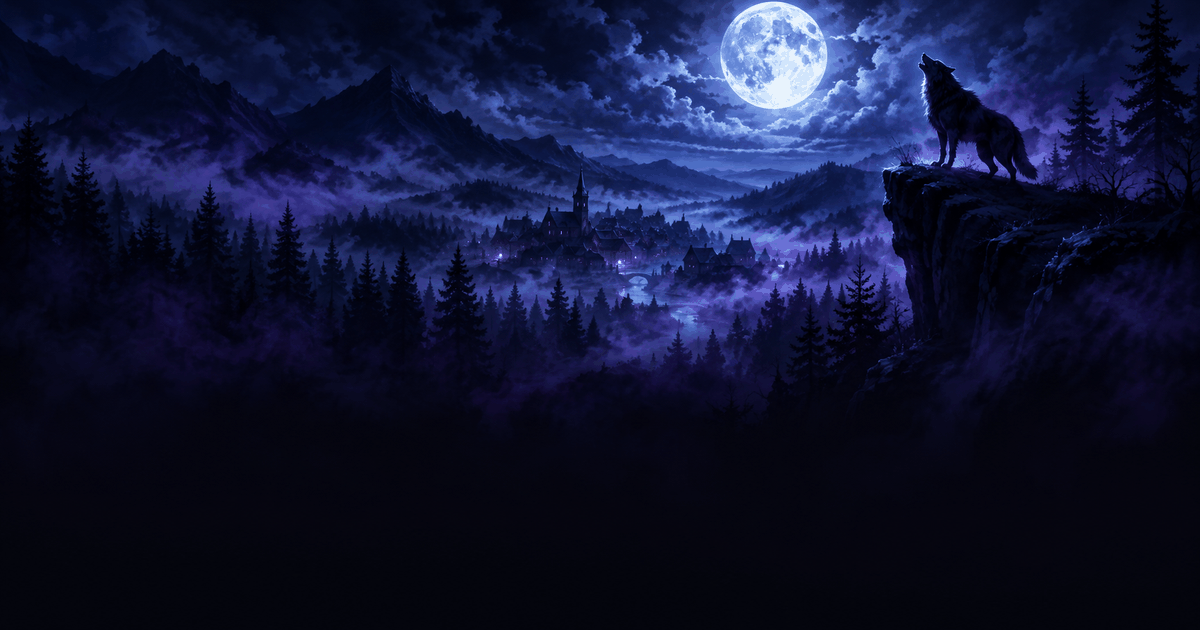
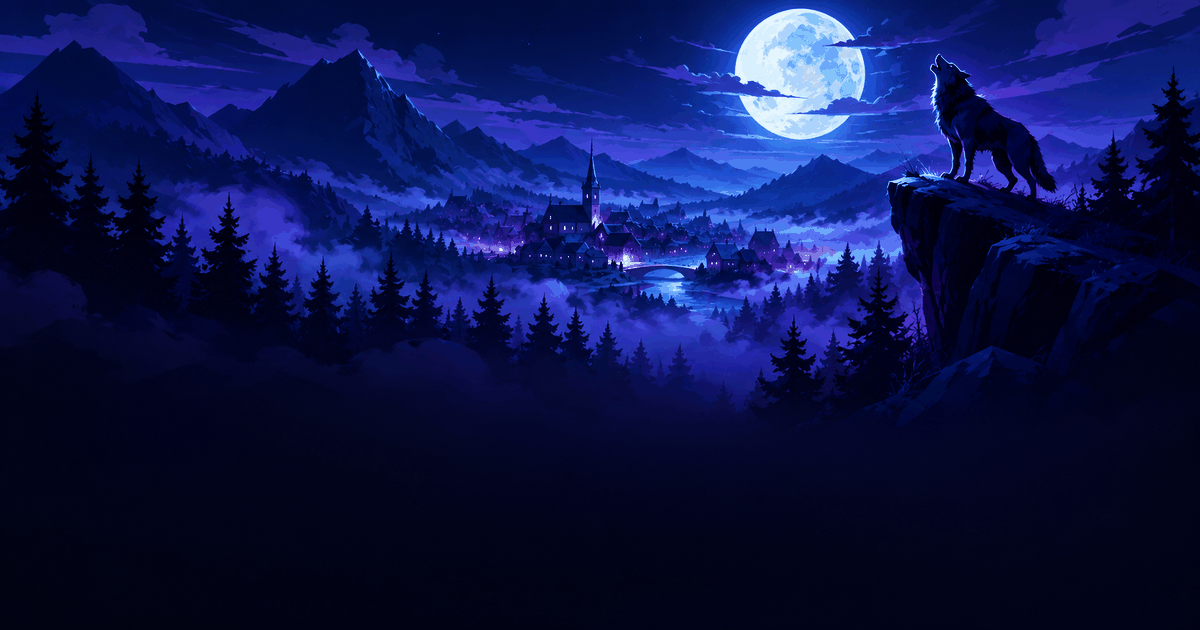
อัปเดตภาพศิลปะ: hero ใหม่ 1200x630 (354KB) + role.jpg fallback เป็นการ์ด back 600x800 (89KB) + sw v2.4.1

diff --git a/sw.js b/sw.js
@@ -3,7 +3,7 @@
    (ถ้า reject → navigation ทั้งหน้าล่มเป็น ERR_FAILED) */
 'use strict';
 
-const VERSION = 'v2.4.0';
+const VERSION = 'v2.4.1';
 const CACHE = 'werewolf-shell-' + VERSION;
 const NAV_TIMEOUT_MS = 5000;
 

diff --git a/PROJECT.md b/PROJECT.md
@@ -278,6 +278,7 @@ BOOT        load → applyTheme → render → ลงทะเบียน servi
 20. ✅ **หน้าตั้งค่า: ชาวบ้านหลายตัว + สุ่มตามสมดุล + สรุปก่อนเริ่มเกม** — แก้ `SINGLETON_ROLES` ไม่ให้จำกัดชาวบ้านไว้ 1 (เพิ่ม/ลดได้หลายตัว) · รูปบทบาทเหลือ 360×480px (เลื่อนไม่ยาว) · ปุ่ม `🎲 สุ่มบทบาทตามสมดุล` (`autoBalanceRoles()` เลือกบทบาทตามจำนวนผู้เล่น 4-18 + ปล่อยว่าง ≥2 ให้ชาวบ้าน) · การ์ด `📋 สรุปบทบาทในเกม` แสดงครบก่อนกดเริ่ม + dialog ยืนยัน (`confirmStartGame()`) สรุปทุกฝ่าย/จำนวน/คะแนนสมดุลก่อนเข้ากลางคืน · **E2E 71/71 ผ่าน** (`sw.js` bump เป็น v2.2.0)
 21. ✅ **ปุ่มสุ่มตามสมดุล v2 + การ์ดตั้งค่าเล็ก/กริด 2 คอลัมน์ + บั๊กเล็ก** — เขียน `autoBalanceRoles()` ใหม่ทั้งหมด: สร้าง 60 ผู้สมัครแบบสุ่ม (สุ่มจำนวนหมาป่าตามช่วง, 40% ใส่ลูกหมาป่า, greedy 70% / random walk 30% ไล่เพิ่มบทบาทที่ลด `|คะแนนสมดุล|` เท่านั้น) → เลือกผล `|score| ≤ 2` (**ใกล้ 0 ทุกขนาด 4-18 คน**) ที่ไม่ซ้ำกับผลก่อนหน้า (exclude `rolesSig` ปัจจุบัน + `lastAutoSig`, fallback ปรับจำนวนชาวบ้านเมื่อทางเลือกหมด) → **กดสุ่มครั้งไหนก็ได้ผลต่างจากครั้งก่อน** · รูปบทบาท 180×240px, `.rimg-large` max 180px จัดกึ่งกลาง · กริดหน้าตั้งค่า 2 คอลัมน์ (≥768px: 3, ≥1200px: 4) + การ์ดกระชับ (ชื่อ 15px, desc ตัด 3 บรรทัด แตะเพื่อขยาย) · แก้บั๊ก: `balanceWarnings` ตรวจอัตราชาวบ้านผิด (`villagerCount()` → `totalVillagers()`) + `TRIM_ORDER` ไม่มี `villager` (trim ไม่หมดถ้า save เก่าล้น) + `isAssignValid`/`renderAssign` นับ `deck.villager` ผิด (ชาวบ้านระบุเอง → manual assign ถูกบล็อก/นับผิด) + `renderAssign` มีตัวเลือกชาวบ้านซ้ำใน dropdown (SPECIAL มี villager แล้วแต่ยัง concat ซ้ำ) · **E2E 76/76 ผ่าน** (`sw.js` bump เป็น v2.3.0)
 22. ✅ **ภาพ banner หน้าแรก (`assets/hero.png`) ของจริง** — แทนที่ placeholder ด้วยภาพฉากกลางคืนหมาป่าหอนบนหน้าผา (พระจันทร์เต็มดวง + หมู่บ้านในหมอก, โทนน้ำเงิน-ม่วงเข้าธีมแอป) ครอป/ย่อเป็น **1200×630 เป๊ะ + บีบอัด PNG 256 สี (1.6MB → 383KB)**, ครึ่งล่างมืดรับ gradient overlay + ป้าย GM · `sw.js` bump **v2.4.0** (บังคับ re-precache ให้ผู้ใช้เดิมเห็นรูปใหม่)
+23. ✅ **อัปเดตภาพศิลปะ: `assets/hero.png` + `assets/role.jpg` (fallback)** — hero ภาพใหม่ (ฉากหมาป่าหอน+หมู่บ้านในหมอกเวอร์ชันปรับปรุง) ครอป/บีบเป็น **1200×630, 354KB**; `role.jpg` (ภาพ fallback ที่ `roleImg()` ใช้เมื่อรูปบทบาทโหลดไม่ขึ้น) เปลี่ยนจาก gradient โล่งๆ เป็น **หลังการ์ด tarot ลอยัล: กรอบฟิลิเกร่ + จันทร์ medallion + หมาป่าหอน 600×800, 89KB** (3:4 ตรง `.rimg`, ไม่มีตัวอักษร) · `sw.js` bump **v2.4.1**
 
 ---
 
